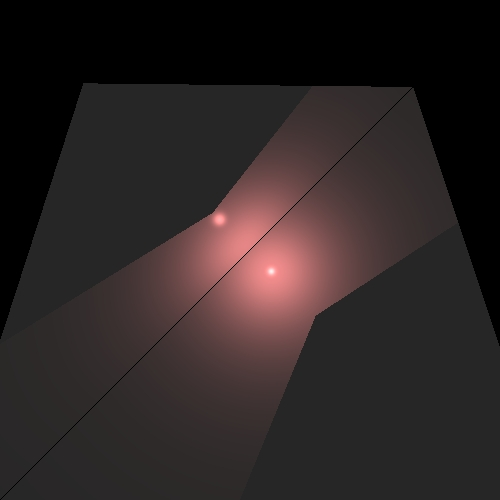
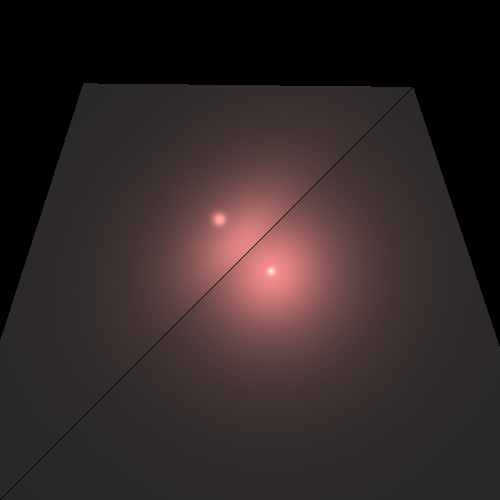
fix testFindIntersections tests

Changed region(s): [[0.54, 0.51, 0.81, 0.81], [0.24, 0.24, 0.57, 0.54]]

diff --git a/MavoProject/src/unittests/SphereTests.java b/MavoProject/src/unittests/SphereTests.java
@@ -6,7 +6,7 @@ package unittests;
 
 import static org.junit.Assert.*;
 
-
+import java.util.Arrays;
 import java.util.List;
 
 import org.junit.Test;
@@ -41,106 +41,89 @@ public class SphereTests {
 	}
 
 	
-    /**
-     * Test method for {@link geometries.Sphere#findIntersections(primitives.Ray)}.
-     */
+	/**
+	 * test Method for
+	 * {@link geometries.Sphere#findIntersections (geomtries.Sphere)}
+	 */
+	@Test
+	public void testFindIntersections() {
+		Sphere sphere = new Sphere(2, new Point3D(0, 0, 0)); // x^2 + y^2 + z^2 = 4
 
-    @Test
-    public void findIntersectionsTest() {
-        Sphere sphere = new Sphere(1d, new Point3D(1, 0, 0));
+		/****************** EP ******************/
 
-        // ============ Equivalence Partitions Tests ==============
-        Point3D p1 = new Point3D(0.0651530771650466, 0.355051025721682, 0);
-        Point3D p2 = new Point3D(1.53484692283495, 0.844948974278318, 0);
-        List<Point3D> exp = List.of(p1, p2);
+		// ray does not intersect with the sphere
+		assertEquals("Sphere findIntersection error : error shouldn't intersec ", null,
+				sphere.findIntersections(new Ray(new Point3D(-4, 0, 0), new Vector(-4, -4, 0))));
+		// ray intersects with the sphere at two points
+		double x = 1.4142135623731;
+		List<GeoPoint> intersections = Arrays.asList(new GeoPoint(sphere, new Point3D(0, 0, 2)),
+				new GeoPoint(sphere, new Point3D(-2, 0, 0)));
+		assertEquals("Sphere findIntersection error ", intersections,
+				sphere.findIntersections(new Ray(new Point3D(-3, 0, -1), new Vector(2, 0, 2))));
+		// ray intersects with the sphere at one point, while p0 is in the sphere
+		x = 1.0696938456699;
+		double y = 1.6898979485566;
+		intersections = Arrays.asList(new GeoPoint(sphere, new Point3D(x, y, 0)));
+		assertEquals("Sphere findIntersection error ", intersections,
+				sphere.findIntersections(new Ray(new Point3D(-1, 1, 0), new Vector(3, 1, 0))));
+		// ray does not intersect with the sphere but the line have two intersection
+		// points
+		assertEquals("Sphere findIntersection error : error shouldn't intersect ", null,
+				sphere.findIntersections(new Ray(new Point3D(-3, 0, -1), new Vector(-2, 0, -2))));
 
-        // TC01: Ray's line is outside the sphere (0 points)
-        assertNull("Ray's line out of sphere",sphere.findIntersections(new Ray(new Point3D(-1, 0, 0), new Vector(1, 1, 0)))
-                );
+		/****************** BVA ******************/
 
-        // TC02: Ray starts before and crosses the sphere (2 points)
-        List<GeoPoint> result = sphere.findIntersections(new Ray(new Point3D(-1, 0, 0), new Vector(3, 1, 0)));
+		/******* BVA case 1 *******/
+		// P0 is on the sphere and the ray points to the outside
+		assertEquals("Sphere findIntersection error ", null,
+				sphere.findIntersections(new Ray(new Point3D(-2, 0, 0), new Vector(-1, 0, 0))));
+		// P0 is outside and there is no intersection.
+		assertEquals("Sphere findIntersection error ", null,
+				sphere.findIntersections(new Ray(new Point3D(-3, 0, 0), new Vector(-1, 0, 0))));
+		// the ray is from the center of the sphere
+		intersections = Arrays.asList(new GeoPoint(sphere, new Point3D(-2, 0, 0)));
+		assertEquals("Sphere findIntersection error ", intersections,
+				sphere.findIntersections(new Ray(new Point3D(0, 0, 0), new Vector(-1, 0, 0))));
+		// the ray is from outside the sphere to the other side of the sphere by the
+		// diameter
+		intersections = Arrays.asList(new GeoPoint(sphere, new Point3D(-2, 0, 0)),new GeoPoint(sphere,  new Point3D(2, 0, 0)));
+		assertEquals("Sphere findIntersection error ", intersections,
+				sphere.findIntersections(new Ray(new Point3D(3, 0, 0), new Vector(-1, 0, 0))));
+		// the ray is from the sphere to the other side of the sphere by the diameter
+		intersections = Arrays.asList(new GeoPoint(sphere, new Point3D(-2, 0, 0)));
+		assertEquals("Sphere findIntersection error ", intersections,
+				sphere.findIntersections(new Ray(new Point3D(2, 0, 0), new Vector(-1, 0, 0))));
+		// the ray is from the inside of the sphere by the diameter
+		intersections = Arrays.asList(new GeoPoint(sphere, new Point3D(-2, 0, 0)));
+		assertEquals("Sphere findIntersection error ", intersections,
+				sphere.findIntersections(new Ray(new Point3D(1, 0, 0), new Vector(-1, 0, 0))));
 
-        assertEquals("Wrong number of points", 2, result.size());
-        if (result.get(0).getPoint().get_x().get() > result.get(1).getPoint().get_x().get()) {
-            result = List.of(result.get(1), result.get(0));
-        }
-        assertEquals("Ray crosses sphere",exp, result);
+		/******* BVA case 2 *******/
+		// the ray is from the sphere to the other side of the sphere
+		intersections = Arrays.asList(new GeoPoint(sphere, new Point3D(0, 2, 0)));
+		assertEquals("Sphere findIntersection error ", intersections,
+				sphere.findIntersections(new Ray(new Point3D(-2, 0, 0), new Vector(1, 1, 0))));
+		// ray is from the sphere
+		assertEquals("Sphere findIntersection error ", null,
+				sphere.findIntersections(new Ray(new Point3D(0, 2, 0), new Vector(1, 1, 0))));
 
-        // TC03: Ray starts inside the sphere (1 point)
-        assertEquals("Ray from inside sphere", List.of(p2),
-                sphere.findIntersections(new Ray(new Point3D(0.5, 0.5, 0), new Vector(3, 1, 0)))
-                );
+		/******* BVA case 3 *******/
+		// ray is tangent to the sphere
+		intersections = Arrays.asList(new GeoPoint(sphere, new Point3D(0, 2, 0)));
+		assertEquals("Sphere findIntersection error ", null,
+				sphere.findIntersections(new Ray(new Point3D(-2, 2, 0), new Vector(1, 0, 0))));
+		// ray is from the tangent to the sphere
+		assertEquals("Sphere findIntersection error ", null,
+				sphere.findIntersections(new Ray(new Point3D(0, 2, 0), new Vector(1, 0, 0))));
+		// ray is on the tangent line of the sphere
+		intersections = Arrays.asList(new GeoPoint(sphere, new Point3D(0, 2, 0)));
+		assertEquals("Sphere findIntersection error ", null,
+				sphere.findIntersections(new Ray(new Point3D(1, 2, 0), new Vector(1, 0, 0))));
 
-        // TC04: Ray starts after the sphere (0 points)
-        assertNull("Sphere behind Ray", sphere.findIntersections(new Ray(new Point3D(2, 1, 0), new Vector(3, 1, 0)))
-                );
-
-        // =============== Boundary Values Tests ==================
-        // **** Group: Ray's line crosses the sphere (but not the center)
-
-        // TC11: Ray starts at sphere and goes inside (1 points)
-        assertEquals( "Ray from sphere inside", List.of(new Point3D(2, 0, 0)),
-                sphere.findIntersections(new Ray(new Point3D(1, -1, 0), new Vector(1, 1, 0)))
-               );
-
-        // TC12: Ray starts at sphere and goes outside (0 points)
-        assertNull("Ray from sphere outside",sphere.findIntersections(new Ray(new Point3D(2, 0, 0), new Vector(1, 1, 0)))
-                );
-
-        // **** Group: Ray's line goes through the center
-        // TC13: Ray starts before the sphere (2 points)
-        result = sphere.findIntersections(new Ray(new Point3D(1, -2, 0), new Vector(0, 1, 0)));
-
-        assertEquals("Wrong number of points", 2, result.size());
-        if (result.get(0).getPoint().get_y().get() > result.get(1).getPoint().get_y().get()) {
-            result = List.of(result.get(1), result.get(0));
-        }
-        assertEquals("Line through O, ray crosses sphere",List.of(new Point3D(1, -1, 0), new Point3D(1, 1, 0)), result
-                );
-
-        // TC14: Ray starts at sphere and goes inside (1 points)
-        assertEquals( "Line through O, ray from and crosses sphere", List.of(new Point3D(1, 1, 0)),
-                sphere.findIntersections(new Ray(new Point3D(1, -1, 0), new Vector(0, 1, 0)))
-               );
-
-        // TC15: Ray starts inside (1 points)
-        assertEquals("Line through O, ray from inside sphere", List.of(new Point3D(1, 1, 0)),
-                sphere.findIntersections(new Ray(new Point3D(1, 0.5, 0), new Vector(0, 1, 0)))
-                );
-
-        // TC16: Ray starts at the center (1 points)
-        assertEquals( "Line through O, ray from O" , List.of(new Point3D(1, 1, 0)),
-                sphere.findIntersections(new Ray(new Point3D(1, 0, 0), new Vector(0, 1, 0)))
-               );
-
-        // TC17: Ray starts at sphere and goes outside (0 points)
-        assertNull( "Line through O, ray from sphere outside",sphere.findIntersections(new Ray(new Point3D(1, 1, 0), new Vector(0, 1, 0)))
-               );
-
-        // TC18: Ray starts after sphere (0 points)
-        assertNull("Line through O, ray outside sphere",sphere.findIntersections(new Ray(new Point3D(1, 2, 0), new Vector(0, 1, 0)))
-                );
-
-        // **** Group: Ray's line is tangent to the sphere (all tests 0 points)
-        // TC19: Ray starts before the tangent point
-        assertNull( "Tangent line, ray before sphere",sphere.findIntersections(new Ray(new Point3D(0, 1, 0), new Vector(1, 0, 0)))
-               );
-
-        // TC20: Ray starts at the tangent point
-        assertNull( "Tangent line, ray at sphere",sphere.findIntersections(new Ray(new Point3D(1, 1, 0), new Vector(1, 0, 0)))
-               );
-
-        // TC21: Ray starts after the tangent point
-        assertNull("Tangent line, ray after sphere",sphere.findIntersections(new Ray(new Point3D(2, 1, 0), new Vector(1, 0, 0)))
-                );
-
-        // **** Group: Special cases
-        // TC19: Ray's line is outside, ray is orthogonal to ray start to sphere's
-        // center line
-        assertNull("Ray orthogonal to ray head -> O line", sphere.findIntersections(new Ray(new Point3D(-1, 0, 0), new Vector(0, 0, 1)))
-                );
-
-    }
+		/******* BVA case 4 *******/
+		// ray is orthogonal to the radius but from outside the sphere
+		assertEquals("Sphere findIntersection error ", null,
+				sphere.findIntersections(new Ray(new Point3D(0, 3, 0), new Vector(1, 0, 0))));
+	}
 
 }

diff --git a/MavoProject/src/unittests/TriangleTest.java b/MavoProject/src/unittests/TriangleTest.java
@@ -4,6 +4,8 @@ import static org.junit.Assert.*;
 
 import primitives.*;
 import geometries.*;
+import geometries.Intersectable.GeoPoint;
+
 import org.junit.Test;
 
 import java.util.Arrays;
@@ -39,7 +41,7 @@ public class TriangleTest {
 		 * EP case
 		 */
 		Ray ray = new Ray(new Point3D(2, 2, -1), new Vector(-1, -1, 1));
-		List<Point3D> intersections = Arrays.asList(new Point3D( new Point3D(1, 1, 0)));
+		List<GeoPoint> intersections = Arrays.asList(new GeoPoint(triangle, new Point3D(1, 1, 0)));
 		assertEquals("Find intersection function error", intersections, triangle.findIntersections(ray));// EP ray to a
 		// point
 		// inside
@@ -59,7 +61,7 @@ public class TriangleTest {
 		 * BVA case 1
 		 */
 		ray = new Ray(new Point3D(1, 1, 0), new Vector(1, -1, -1));
-		intersections = Arrays.asList(new Point3D( new Point3D(1, 1, 0)));
+		intersections = Arrays.asList(new GeoPoint(triangle, new Point3D(1, 1, 0)));
 		assertEquals("Find intersection function error", null, triangle.findIntersections(ray));// BVA ray from a point
 		// inside the triangle
 		ray = new Ray(new Point3D(1, -2, 0), new Vector(0, 2, 1));
@@ -78,7 +80,7 @@ public class TriangleTest {
 		 * BVA case 2
 		 */
 		ray = new Ray(new Point3D(1, 1, -1), new Vector(-1, -1, 1));
-		intersections = Arrays.asList(new Point3D( new Point3D(0, 0, 0)));
+		intersections = Arrays.asList(new GeoPoint(triangle, new Point3D(0, 0, 0)));
 		assertEquals("Find intersection function error", null, triangle.findIntersections(ray));// BVA ray to the vertex
 		// of the triangle
 		ray = new Ray(new Point3D(-2, 0, -2), new Vector(1, 0, 3));
@@ -87,7 +89,7 @@ public class TriangleTest {
 		// on the side axis of
 		// the triangle
 		ray = new Ray(new Point3D(2, 0, -1), new Vector(-1, 0, 1));
-		intersections = Arrays.asList(new Point3D( new Point3D(1, 0, 0)));
+		intersections = Arrays.asList(new GeoPoint(triangle, new Point3D(1, 0, 0)));
 		assertEquals("Find intersection function error", null, triangle.findIntersections(ray));// BVA ray to a point on
 		// the side of the
 		// triangle
@@ -95,7 +97,7 @@ public class TriangleTest {
 		 * BVA case 3
 		 */
 		ray = new Ray(new Point3D(0, 0, 0), new Vector(2, 1, 1));
-		intersections = Arrays.asList(new Point3D( new Point3D(0, 0, 0)));
+		intersections = Arrays.asList(new GeoPoint(triangle, new Point3D(0, 0, 0)));
 		assertEquals("Find intersection function error", null, triangle.findIntersections(ray));// BVA ray from the
 		// vertex of the
 		// triangle
@@ -105,7 +107,7 @@ public class TriangleTest {
 		// on the side axis of
 		// the triangle
 		ray = new Ray(new Point3D(0, 2, 0), new Vector(0, 2, 1));
-		intersections = Arrays.asList(new Point3D( new Point3D(0, 2, 0)));
+		intersections = Arrays.asList(new GeoPoint(triangle, new Point3D(0, 2, 0)));
 		assertEquals("Find intersection function error", null, triangle.findIntersections(ray));// BVA ray from a point
 		// on the side of the
 		// triangle

diff --git a/MavoProject/src/unittests/GeometriesTest.java b/MavoProject/src/unittests/GeometriesTest.java
@@ -6,6 +6,7 @@ import static org.junit.Assert.*;
 import org.junit.Test;
 
 import geometries.*;
+import geometries.Intersectable.GeoPoint;
 import primitives.*;
 
 import java.util.ArrayList;
@@ -27,25 +28,25 @@ public class GeometriesTest {
         Triangle shape3 = new Triangle(new Point3D(0, 0, 2), new Point3D(0, 3, 2), new Point3D(4, 0, 2));
         Ray ray;
         Geometries geometries = new Geometries(shape1, shape2, shape3);
-        List<Point3D> intersection = new ArrayList<Point3D>();
+        List<GeoPoint> intersection = new ArrayList<GeoPoint>();
         // ******** EP ********//
-        intersection.add(new Point3D(new Point3D(1, 1, 1)));
-        intersection.add(new Point3D( new Point3D(1, 1, 2)));
+        intersection.add(new GeoPoint(shape2, new Point3D(1, 1, 1)));
+        intersection.add(new GeoPoint(shape3, new Point3D(1, 1, 2)));
         ray = new Ray(new Point3D(1, 1, 0.5), new Vector(0, 0, 1));
         assertEquals(geometries.findIntersections(ray), intersection); // EP ray intersects with some of the shapes
         // (more than one, less than all of the shapes)
         // ******** BVA ********//
         ray = new Ray(new Point3D(1, 1, 3), new Vector(0, 0, -1));
         intersection.clear();
-        intersection.add(new Point3D( new Point3D(1, 1, 0)));
-        intersection.add(new Point3D( new Point3D(1, 1, 1)));
-        intersection.add(new Point3D( new Point3D(1, 1, 2)));
+        intersection.add(new GeoPoint(shape1, new Point3D(1, 1, 0)));
+        intersection.add(new GeoPoint(shape2, new Point3D(1, 1, 1)));
+        intersection.add(new GeoPoint(shape2, new Point3D(1, 1, 2)));
 
         assertEquals(intersection, geometries.findIntersections(ray)); // BVA ray intersects with all the shapes
 
         ray = new Ray(new Point3D(-1, -1, 3), new Vector(0, 0, -1));
         intersection.clear();
-        intersection.add(new Point3D( new Point3D(-1, -1, 1)));
+        intersection.add(new GeoPoint(shape2, new Point3D(-1, -1, 1)));
         assertEquals(intersection, geometries.findIntersections(ray)); // BVA ray intersects with only one of the shapes
 
         ray = new Ray(new Point3D(1, 1, 3), new Vector(0, 0, 1));

diff --git a/MavoProject/src/unittests/PlaneTests.java b/MavoProject/src/unittests/PlaneTests.java
@@ -10,6 +10,7 @@ import static org.junit.Assert.*;
 import org.junit.Test;
 import java.util.Arrays;
 import java.util.List;
+import geometries.Intersectable.GeoPoint;
 
 import geometries.*;
 import primitives.*;
@@ -60,7 +61,7 @@ public class PlaneTests {
     public void testFindIntersections() {
         Plane plane = new Plane(p, dir);
         Ray ray = new Ray(new Point3D(0, 0, 1), new Vector(1, 1, -1));
-        List<Point3D> intersections = Arrays.asList(new Point3D( new Point3D(1, 1, 0)));
+        List<GeoPoint> intersections = Arrays.asList(new GeoPoint(plane, new Point3D(1, 1, 0)));
         assertEquals("Find intersections function error", intersections, plane.findIntersections(ray)); // EP ray
         // intersects
         // with the
@@ -81,7 +82,7 @@ public class PlaneTests {
         assertEquals("Find intersections function error", null, plane.findIntersections(ray)); // BVA ray is orthogonal
         // and after p0
         ray = new Ray(new Point3D(0, 0, -1), new Vector(0, 0, 1));
-        intersections = Arrays.asList(new Point3D(new Point3D(0, 0, 0)));
+        intersections = Arrays.asList(new GeoPoint(plane,new Point3D(0, 0, 0)));
         assertEquals("Find intersections function error", intersections, plane.findIntersections(ray)); // BVA ray is
         // orthogonal
         // and before p0
@@ -92,10 +93,9 @@ public class PlaneTests {
         assertEquals("Find intersections function error", null, plane.findIntersections(ray)); // BVA ray begins in the
         // plane
         ray = new Ray(new Point3D(1, 1, 0), new Vector(1, 1, 1));
-        intersections = Arrays.asList(new Point3D(new Point3D(1, 1, 0)));
+        intersections = Arrays.asList(new GeoPoint(plane,new Point3D(1, 1, 0)));
         assertEquals("Find intersections function error", null, plane.findIntersections(ray)); // BVA ray begins in the
         // reference point of
         // the plane
     }
-
 }

diff --git a/MavoProject/src/unittests/PolygonTests.java b/MavoProject/src/unittests/PolygonTests.java
@@ -8,6 +8,7 @@ import static org.junit.Assert.*;
 import org.junit.Test;
 
 import geometries.*;
+import geometries.Intersectable.GeoPoint;
 import primitives.*;
 import java.util.Arrays;
 import java.util.List;
@@ -95,7 +96,7 @@ public class PolygonTests {
         assertEquals("Bad normal to trinagle", new Vector(sqrt3, sqrt3, sqrt3), pl.getNormal(new Point3D(0, 0, 1)));
     }
     
-    @Test
+	@Test
 	public void testFindIntersections() {
 		Point3D p1 = new Point3D(0, 0, 0);
 		Point3D p2 = new Point3D(1, 0, 0);
@@ -103,7 +104,7 @@ public class PolygonTests {
 		Point3D p4 = new Point3D(0, 1, 0);
 		Polygon square = new Polygon(p1, p2, p3, p4);
 		Ray ray = new Ray(new Point3D(0.25, 0.25, -1), new Vector(0, 0, 1));
-		List<Point3D> intersections = Arrays.asList(new Point3D(  new Point3D(0.25, 0.25, 0)));
+		List<GeoPoint> intersections = Arrays.asList(new GeoPoint( square, new Point3D(0.25, 0.25, 0)));
 		assertEquals("Polygon findIntersection error ", intersections, square.findIntersections(ray)); // inside square
 		ray = new Ray(new Point3D(-1, -1, -1), new Vector(0, 0, 1));
 		assertEquals("Polygon findIntersection error ", null, square.findIntersections(ray)); // outside square
@@ -114,7 +115,7 @@ public class PolygonTests {
 		Point3D p5 = new Point3D(0, -2, 0);
 		Polygon pentagon = new Polygon(p1, p2, p3, p4, p5);
 		ray = new Ray(new Point3D(0, 0, -1), new Vector(0, 0, 1));
-		intersections = Arrays.asList(new Point3D( new Point3D(0, 0, 0)));
+		intersections = Arrays.asList(new GeoPoint( square, new Point3D(0, 0, 0)));
 		assertEquals("Polygon findIntersection error ", intersections, pentagon.findIntersections(ray)); // inside
 		// pentagon
 		ray = new Ray(new Point3D(-3, 3, -1), new Vector(0, 0, 1));

diff --git a/MavoProject/src/renderer/Render.java b/MavoProject/src/renderer/Render.java
@@ -131,15 +131,16 @@ public class Render {
             double e1 = n.dotProduct(l);	
             double e2 = n.dotProduct(v);	
             if ((e1 > 0 && e2 > 0) || (e1 < 0 && e2 < 0)) {	
-                if (unshaded(l, n, intersection)) {	
+                //if (unshaded(l, n, intersection)) {	
                     Color lightIntensity = lightSource.getIntensity(intersection.point);	
                     color = color.add((calcDiffusive(kd, l, n, lightIntensity)), calcSpecular(ks, l, n, v, nShininess, lightIntensity));	
-                }	
+               // }	
                 }	
         }	
         return color;	
     }
 	 private static final double EPS = 1.0;
+	 
 	 private boolean unshaded(Vector l, Vector n, GeoPoint geopoint) {	
 	        Vector lightDirection = l.scale(-1); // from point to light source	
 	        Vector epsVector = n.scale(n.dotProduct(lightDirection) > 0 ? EPS : -EPS);	

diff --git a/MavoProject/src/unittests/LightsTests.java b/MavoProject/src/unittests/LightsTests.java
@@ -53,7 +53,7 @@ public class LightsTests {
                 new Sphere(new Color(java.awt.Color.BLUE), new Material(0.5, 0.5, 100), 50, new Point3D(0, 0, 50)));
 
         scene.addLight(new PointLight(new Color(500, 300, 0), new Point3D(-50, 50, -50), 1, 0.00001, 0.000001));
-
+        
         ImageWriter imageWriter = new ImageWriter("spherePoint", 150, 150, 500, 500);
         Render render = new Render(imageWriter, scene);
 
